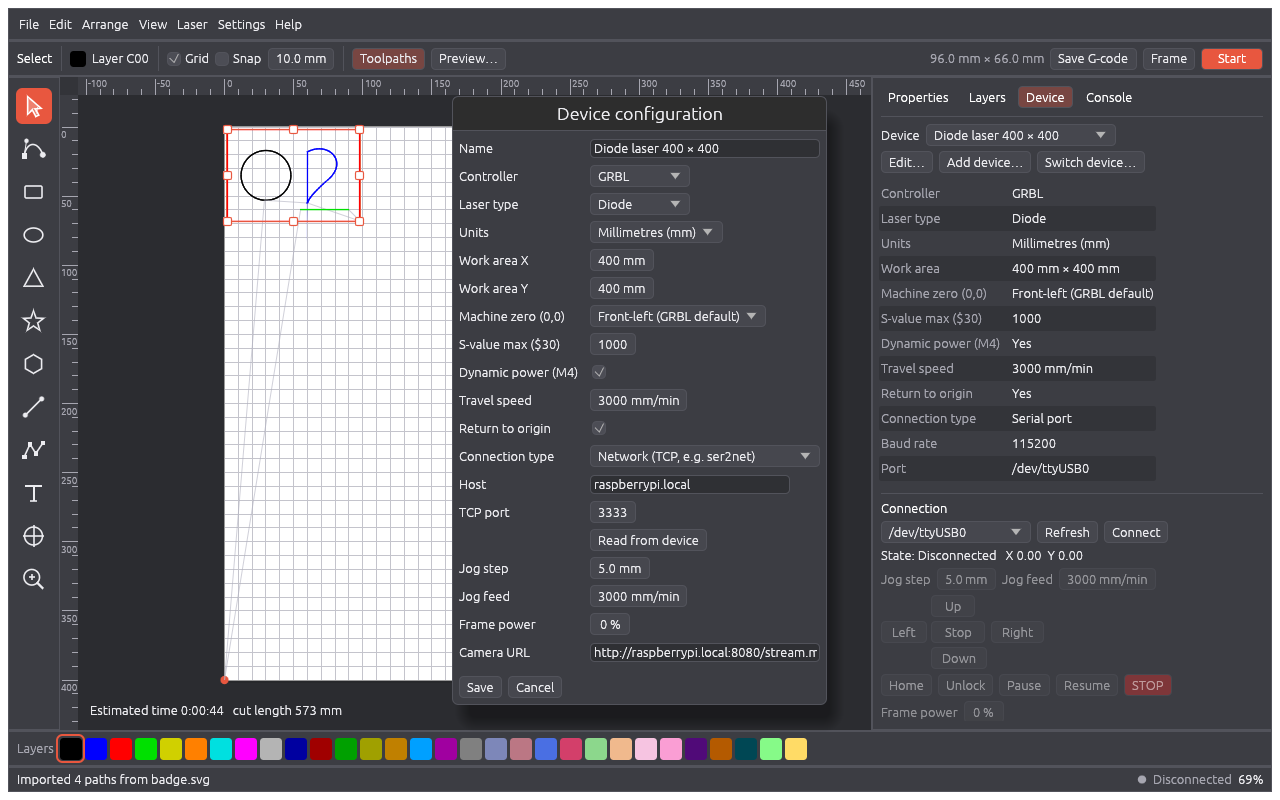
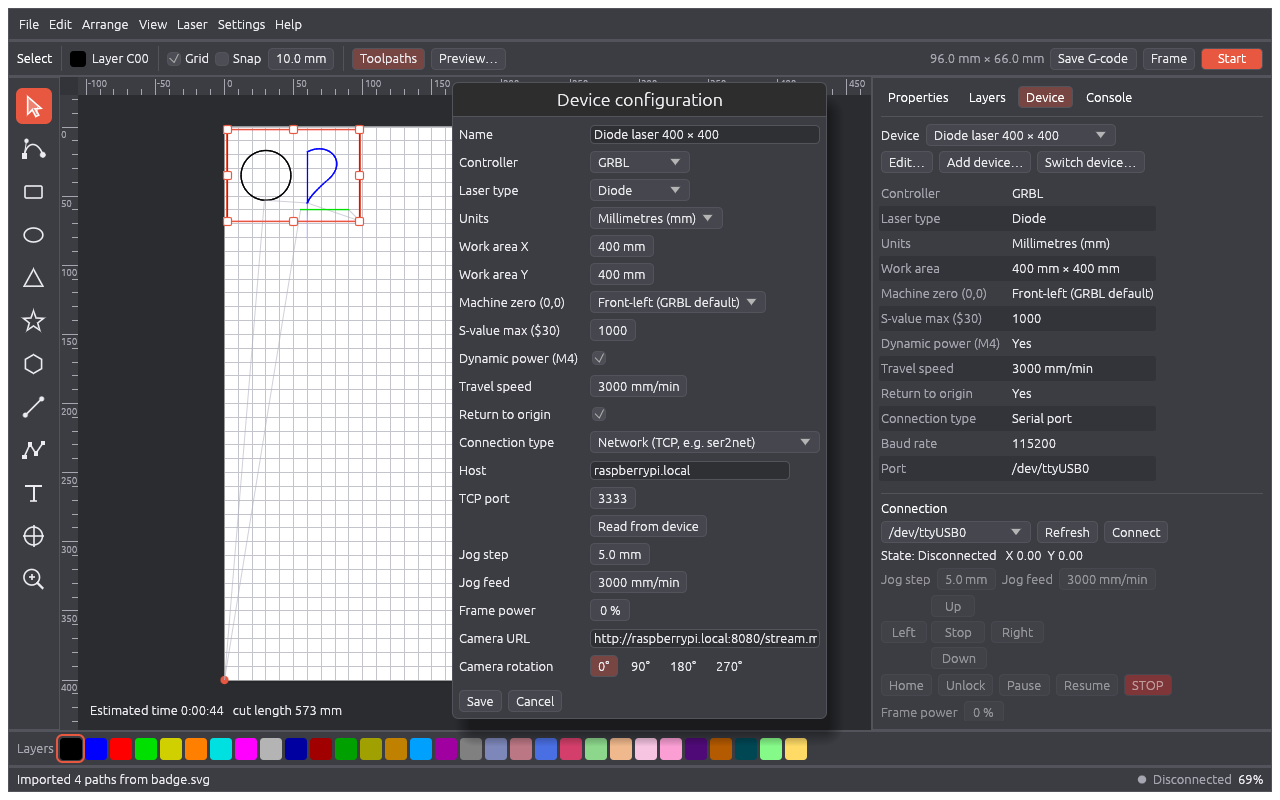
Camera rotation moved to the device configuration and saved with the device options

diff --git a/crates/lightcreator/src/stream_ui.rs b/crates/lightcreator/src/stream_ui.rs
@@ -48,6 +48,12 @@ impl App {
             self.stream_err.clear();
             self.stream = Some((url.to_string(), camera_stream::spawn(url.to_string(), ctx.clone())));
         }
+        // The rotation is a device setting: a change shows up at once.
+        let rotation = self.doc.device.camera_rotation % 4;
+        if self.stream_rot != rotation {
+            self.stream_rot = rotation;
+            self.stream_tex = None;
+        }
         let mut latest = None;
         if let Some((_, w)) = &self.stream {
             while let Ok(m) = w.rx.try_recv() {
@@ -61,7 +67,7 @@ impl App {
             }
         }
         if let Some(f) = latest {
-            let (w, h, rgb) = rotate_rgb(&f.rgb, f.w, f.h, self.doc.device.camera_rotation);
+            let (w, h, rgb) = rotate_rgb(&f.rgb, f.w, f.h, rotation);
             let img = egui::ColorImage::from_rgb([w as usize, h as usize], &rgb);
             match &mut self.stream_tex {
                 Some(t) if t.size() == [w as usize, h as usize] => t.set(img.clone(), egui::TextureOptions::LINEAR),
@@ -87,19 +93,6 @@ impl App {
             }
             if before == StreamMode::Tab && self.stream_mode != StreamMode::Tab && self.side_tab == SideTab::Camera {
                 self.side_tab = SideTab::Properties;
-            }
-        });
-        ui.horizontal(|ui| {
-            ui.label(tr("Rotate"));
-            let mut r = self.doc.device.camera_rotation % 4;
-            for q in 0..4u8 {
-                ui.selectable_value(&mut r, q, format!("{}°", q as u32 * 90));
-            }
-            if r != self.doc.device.camera_rotation {
-                self.doc.device.camera_rotation = r;
-                self.sync_profile();
-                // The next frame is rotated; refresh the texture size right away.
-                self.stream_tex = None;
             }
         });
         ui.label(RichText::new(&url).monospace().color(theme::text_dim()));
@@ -213,5 +206,16 @@ mod tests {
         a.side_tab = SideTab::Camera;
         a.stream_closed();
         assert_eq!(a.side_tab, SideTab::Properties);
+    }
+
+    #[test]
+    fn rotation_comes_from_the_device_and_resets_the_picture() {
+        let (mut a, ctx) = app_with_overlay();
+        a.stream_tex = Some(ctx.load_texture("t", egui::ColorImage::from_rgb([2, 1], &[0u8; 6]), egui::TextureOptions::LINEAR));
+        a.doc.device.camera_rotation = 1;
+        a.stream_poll(&ctx, "http://127.0.0.1:9/none.mjpg");
+        assert!(a.stream_tex.is_none(), "texture is rebuilt with the new rotation");
+        assert_eq!(a.stream_rot, 1);
+        a.stream = None;
     }
 }

diff --git a/crates/lightcreator/src/i18n.rs b/crates/lightcreator/src/i18n.rs
@@ -520,6 +520,7 @@ const TABLE: &[[&str; 7]] = &[
     ["Installed {} and restarted ser2net.", "Zainstalowano {} i zrestartowano ser2net.", "{} installiert und ser2net neu gestartet.", "Installato {} e riavviato ser2net.", "Asennettu {} ja ser2net käynnistetty uudelleen.", "已安装 {} 并重启 ser2net。", "{} इंस्टॉल किया और ser2net रीस्टार्ट किया।"],
     ["Could not install the configuration: {}", "Nie udało się zainstalować konfiguracji: {}", "Die Konfiguration konnte nicht installiert werden: {}", "Impossibile installare la configurazione: {}", "Asetusten asennus epäonnistui: {}", "无法安装配置：{}", "कॉन्फ़िगरेशन इंस्टॉल नहीं हो सका: {}"],
     ["By hand: sudo cp <saved file> {} && sudo systemctl restart ser2net", "Ręcznie: sudo cp <zapisany plik> {} && sudo systemctl restart ser2net", "Von Hand: sudo cp <gespeicherte Datei> {} && sudo systemctl restart ser2net", "A mano: sudo cp <file salvato> {} && sudo systemctl restart ser2net", "Käsin: sudo cp <tallennettu tiedosto> {} && sudo systemctl restart ser2net", "手动：sudo cp <已保存的文件> {} && sudo systemctl restart ser2net", "हाथ से: sudo cp <सहेजी फ़ाइल> {} && sudo systemctl restart ser2net"],
+    ["Camera rotation", "Obrót kamery", "Kameradrehung", "Rotazione fotocamera", "Kameran kierto", "摄像头旋转", "कैमरा रोटेशन"],
 ];
 #[cfg(test)]
 mod tests {

diff --git a/crates/lightcreator/src/device_ui.rs b/crates/lightcreator/src/device_ui.rs
@@ -282,6 +282,13 @@ impl App {
                 ui.label(tr("Camera URL"));
                 ui.add(egui::TextEdit::singleline(&mut d.camera_url).hint_text("http://raspberrypi.local:8080/stream.mjpg").desired_width(260.0)).on_hover_text(tr("Live picture of the machine: an MJPEG stream or a JPEG snapshot address (http or https)."));
                 ui.end_row();
+                ui.label(tr("Camera rotation"));
+                ui.horizontal(|ui| {
+                    for q in 0..4u8 {
+                        ui.selectable_value(&mut d.camera_rotation, q, format!("{}°", q as u32 * 90));
+                    }
+                });
+                ui.end_row();
             });
             ui.add_space(8.0);
             let valid = !cfg.draft.name.trim().is_empty();
@@ -423,6 +430,7 @@ impl App {
             }
             if !dev.camera_url.trim().is_empty() {
                 row(tr("Camera URL"), dev.camera_url.clone());
+                row(tr("Camera rotation"), format!("{}°", dev.camera_rotation as u32 % 4 * 90));
             }
         });
         ui.add_space(6.0);

diff --git a/crates/lc-core/src/tests.rs b/crates/lc-core/src/tests.rs
@@ -451,3 +451,14 @@ fn ser2net_configs() {
     assert_eq!(version_from_output("nothing"), None);
     assert_eq!(Version::V4.file(), "/etc/ser2net.yaml");
 }
+
+#[test]
+fn camera_rotation_is_stored_with_the_device() {
+    let mut d = Device::default();
+    d.camera_rotation = 3;
+    let back: Device = serde_json::from_str(&serde_json::to_string(&d).unwrap()).unwrap();
+    assert_eq!(back.camera_rotation, 3);
+    assert_eq!(back, d);
+    let old = r#"{"name":"x","bed_w":300.0,"bed_h":200.0,"origin":"FrontLeft","s_max":1000.0,"dynamic_power":true,"travel_speed":3000.0,"return_home":true,"baud":115200}"#;
+    assert_eq!(serde_json::from_str::<Device>(old).unwrap().camera_rotation, 0);
+}

diff --git a/crates/lightcreator/src/app.rs b/crates/lightcreator/src/app.rs
@@ -123,6 +123,8 @@ pub struct App {
     pub ser2net: Option<crate::ser2net_ui::Ser2NetDlg>,
     pub stream_mode: crate::stream_ui::StreamMode,
     pub tab_seen: bool,
+    /// Rotation the current stream texture was made with.
+    pub stream_rot: u8,
     pub stream: Option<(String, crate::camera_stream::StreamWorker)>,
     pub stream_tex: Option<egui::TextureHandle>,
     pub stream_err: String,
@@ -238,6 +240,7 @@ impl App {
             ser2net: None,
             stream_mode: crate::stream_ui::StreamMode::Floating,
             tab_seen: false,
+            stream_rot: 0,
             stream: None,
             stream_tex: None,
             stream_err: String::new(),

diff --git a/FEATURES.md b/FEATURES.md
@@ -63,7 +63,8 @@
   work area. RTSP streams are not supported; use an MJPEG address (most camera software offers one). The view
   can float inside the application, open as a separate operating-system window that can leave the application
   (and sit on another screen) or be docked as a tab of the side panel, and the picture can be rotated by 90°,
-  180° or 270° (remembered per device).
+  180° or 270°. The rotation is a device setting (Camera rotation in the device configuration) and is saved
+  with the other device options.
 * The camera overlay on the work area can be switched on and off at any time: the "Overlay" button in the
   control bar and View > Show camera overlay work even when no camera window is open.
 * **GRBL** and **Marlin** (laser feature, inline power) stream over a serial port or TCP: connect, jog, home, unlock,
